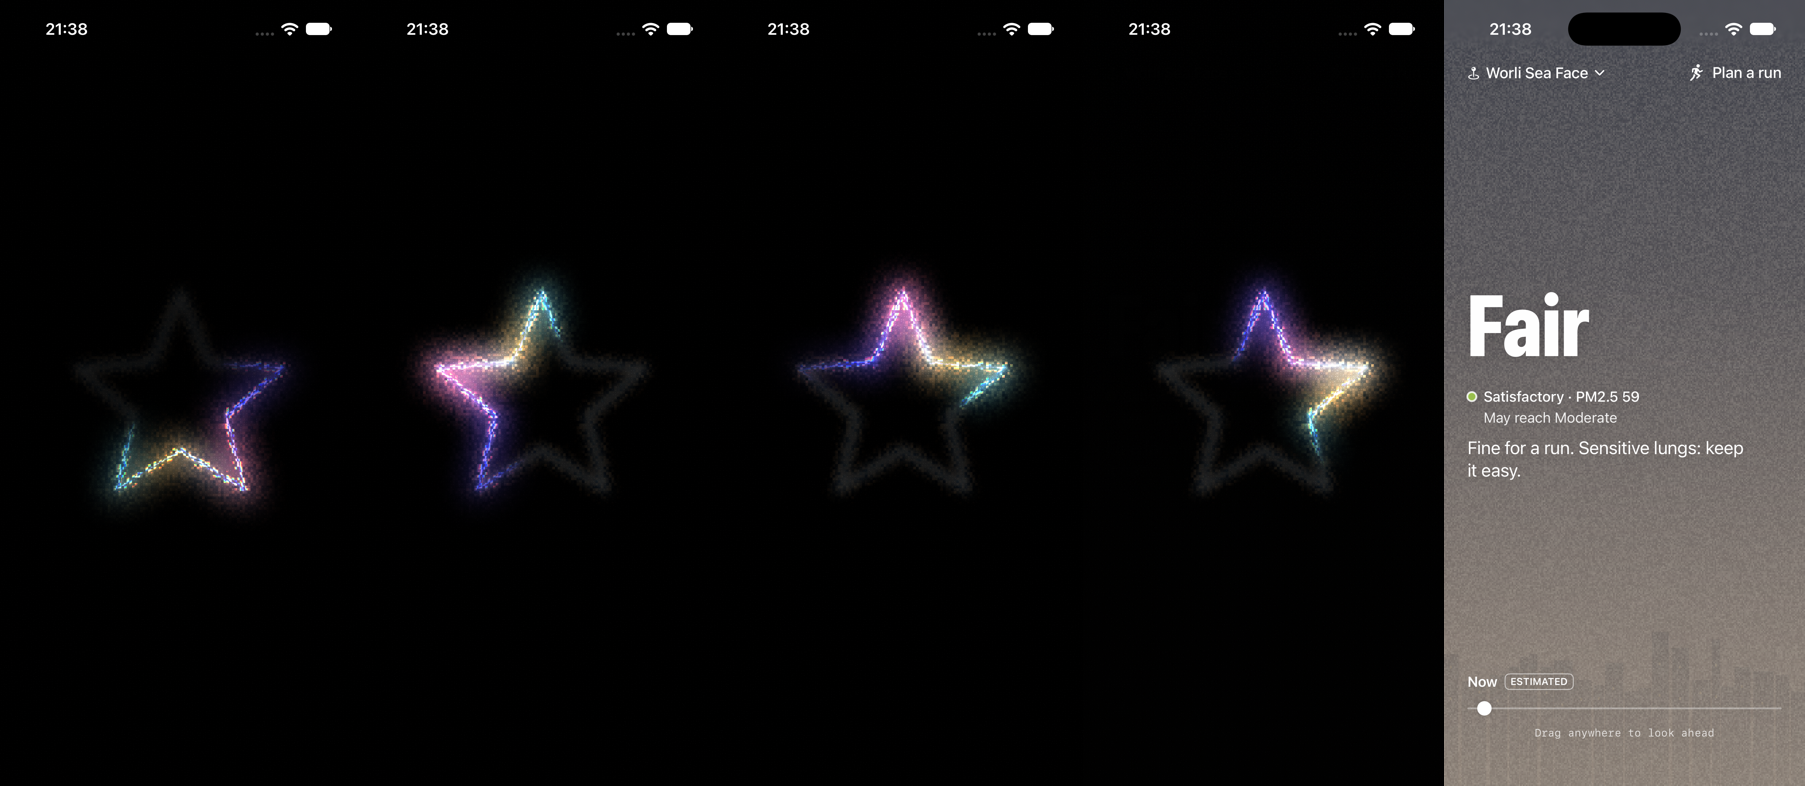
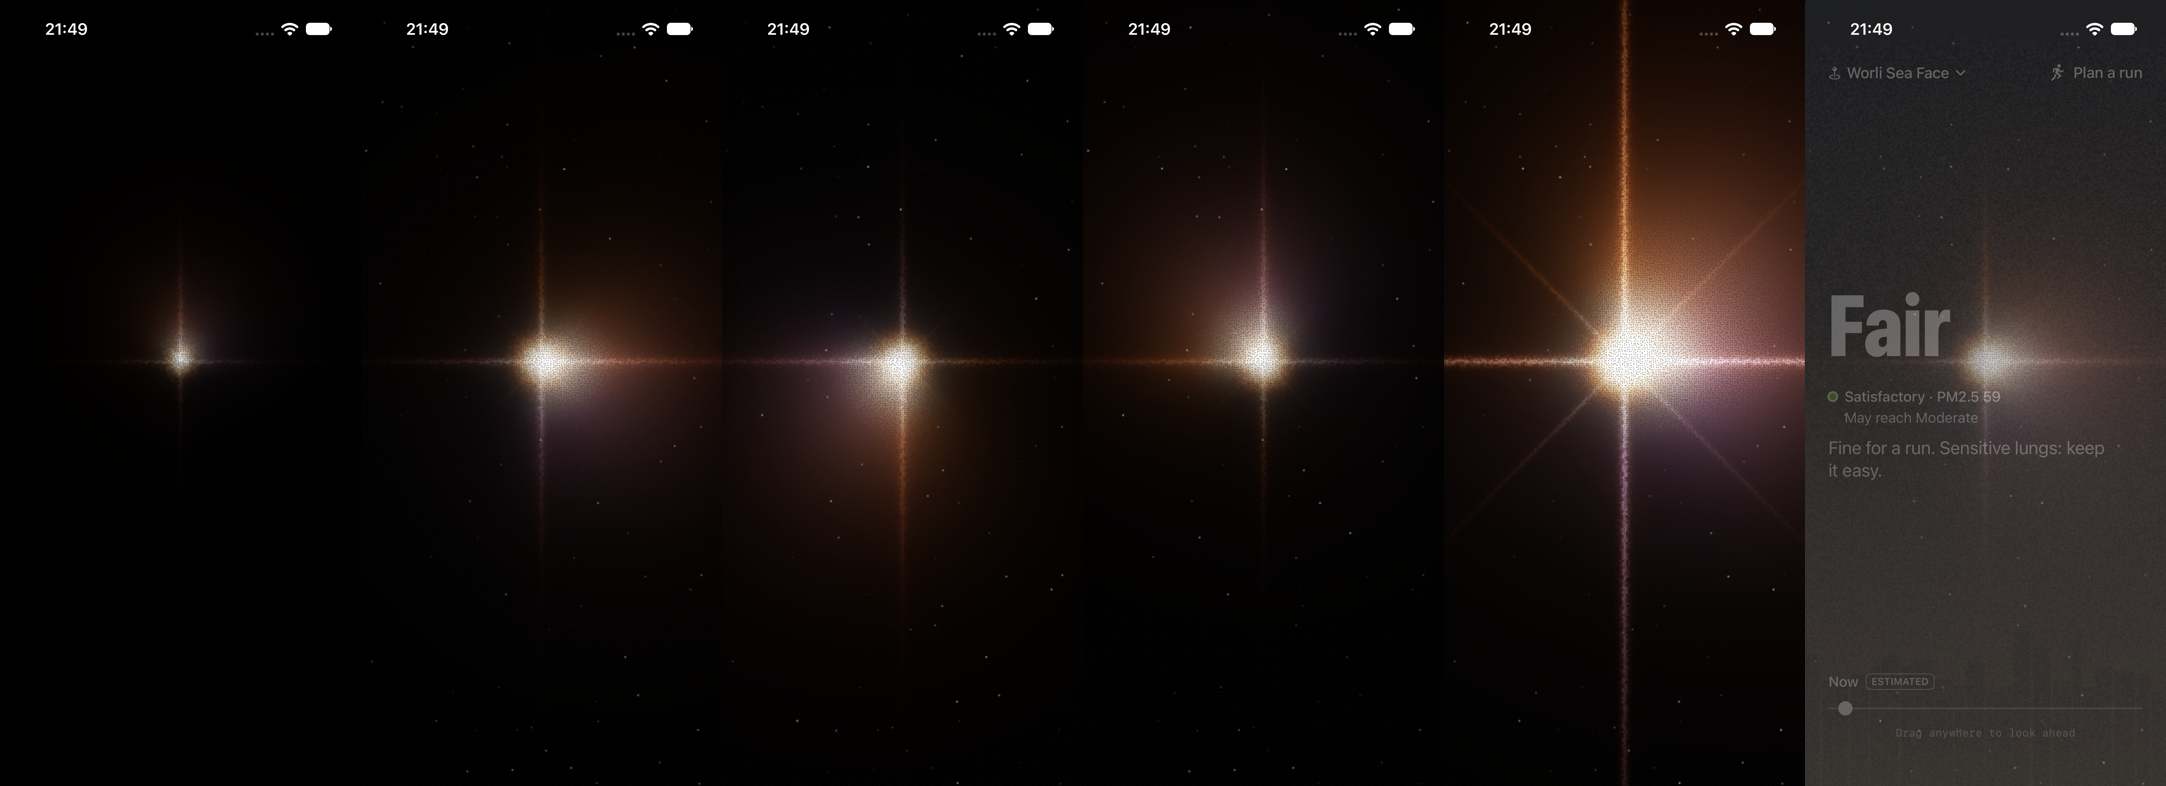
Make the opening star a real sky star, longer, with a proper sparkle
The outlined five-point star is replaced by a star as seen in the night sky:
white-hot centre, soft four-point glow and diffraction rays. It blooms from
a point, its prism-coloured light travels around it while it twinkles and
faint stars appear, it flares once, then fades into the sky (about 4.3 s).
Drawn by one Metal shader with the textured-glass specks of the Figma riff.

diff --git a/iOS/North Star/North Star/Launch/LaunchStar.swift b/iOS/North Star/North Star/Launch/LaunchStar.swift
@@ -1,41 +1,37 @@
 import SwiftUI
 
-/// The opening animation: a glowing star on black, with a bright rainbow
-/// highlight sweeping once around its edge, seen through a pane of textured
-/// glass (GlassPane.metal). Then it fades into the sky.
+/// The opening animation: a star blooms out of the dark, its light travels
+/// around it while it twinkles and faint stars appear around it, it flares once,
+/// then the picture fades into the sky. Drawn by SkyStar.metal.
 ///
 /// Inspired by Brett McMillin's "Spectral signal through the pane of glass"
-/// (Figma Community), with a star in place of the ring.
+/// (Figma Community), as a star in the night sky instead of a ring.
 struct LaunchStar: View {
     /// Called when the animation has finished (or was skipped by a tap).
     let onFinish: () -> Void
 
     @Environment(\.accessibilityReduceMotion) private var reduceMotion
-    /// When the animation's clock started; nil until the glass effect is ready to draw.
+    /// When the animation's clock started; nil until the shader is ready to draw.
     @State private var start: Date?
     @State private var finished = false
 
-    /// The glass: cells 3 points across, each bending the light up to 4 points.
-    private static let glass = ShaderLibrary.glassPane(.float(3), .float(8))
-
-    /// Timings in seconds.
-    private let fadeIn = 0.45
-    private let total = 2.2
-    private let fadeOut = 0.5
+    /// Timings in seconds: bloom, then the light travels, a flare, and the fade into the sky.
+    private var total: Double { reduceMotion ? 2.0 : 4.3 }
+    private let flareAt = 3.3
+    private let fadeOut = 0.7
 
     var body: some View {
-        TimelineView(.animation(paused: start == nil)) { context in
-            let t = start.map { context.date.timeIntervalSince($0) } ?? 0
-            ZStack {
-                Color.black
-                if start != nil {
-                    StarGlow(sweep: reduceMotion ? 0.62 : progress(t), strength: appear(t))
-                        .frame(width: 240, height: 240)
-                        .scaleEffect(1 + 0.12 * leave(t))
-                }
+        GeometryReader { geometry in
+            TimelineView(.animation(paused: start == nil)) { context in
+                let t = time(at: context.date)
+                Rectangle()
+                    .fill(.black)
+                    .colorEffect(ShaderLibrary.skyStar(
+                        .float2(geometry.size), .float(t),
+                        .float(bloom(t)), .float(orbit(t)), .float(flare(t)), .float(sky(t))),
+                                 isEnabled: start != nil)
+                    .opacity(1 - leave(t))
             }
-            .layerEffect(Self.glass, maxSampleOffset: CGSize(width: 8, height: 8), isEnabled: start != nil)
-            .opacity(1 - leave(t))
         }
         .ignoresSafeArea()
         .contentShape(Rectangle())
@@ -43,10 +39,14 @@ struct LaunchStar: View {
         .accessibilityLabel("North Star")
         .accessibilityAddTraits(.isImage)
         .task {
-            // Prepare the glass effect for the graphics chip first (the first time takes
-            // a moment), so the clock only starts once every frame can be drawn.
-            _ = try? await Self.glass.compile(as: .layerEffect)
+            // Prepare the shader for the graphics chip first (the first time takes a
+            // moment), so the clock only starts once every frame can be drawn.
+            _ = try? await ShaderLibrary.skyStar(.float2(CGSize.zero), .float(0), .float(0), .float(0), .float(0), .float(0))
+                .compile(as: .colorEffect)
             start = .now
+            #if DEBUG
+            if UserDefaults.standard.object(forKey: "introAt") != nil { return }  // frozen for screenshots
+            #endif
             try? await Task.sleep(for: .seconds(total))
             finish()
         }
@@ -58,90 +58,39 @@ struct LaunchStar: View {
         onFinish()
     }
 
-    // MARK: - Timing curves (each 0 to 1)
-
-    /// The star fading in.
-    private func appear(_ t: Double) -> Double { smooth(t / fadeIn) }
-
-    /// How far round the star the highlight has travelled (one turn, easing out).
-    private func progress(_ t: Double) -> Double {
-        let x = min(1, max(0, t / (total - fadeOut * 0.5)))
-        return 0.15 + (1 - pow(1 - x, 2.2)) * 1.0
+    /// Seconds since the start. Debug builds can freeze it with "-introAt 2.5" for screenshots.
+    private func time(at date: Date) -> Double {
+        #if DEBUG
+        if UserDefaults.standard.object(forKey: "introAt") != nil { return UserDefaults.standard.double(forKey: "introAt") }
+        #endif
+        return start.map { date.timeIntervalSince($0) } ?? 0
     }
 
-    /// The whole picture fading out into the sky.
+    // MARK: - Timing curves
+
+    /// The star growing out of a point (0 to 1).
+    private func bloom(_ t: Double) -> Double { smooth(t / 0.9) }
+
+    /// Background stars fading in (0 to 1).
+    private func sky(_ t: Double) -> Double { smooth((t - 0.3) / 1.2) }
+
+    /// Direction of the travelling light: one and a quarter turns, easing in and out.
+    private func orbit(_ t: Double) -> Double {
+        if reduceMotion { return -.pi / 3 }
+        return -.pi / 2 + smooth(t / (total - 0.4)) * 2.5 * .pi
+    }
+
+    /// The final sparkle: a quick bright pulse around flareAt (0 to 1).
+    private func flare(_ t: Double) -> Double {
+        reduceMotion ? 0 : exp(-pow((t - flareAt) / 0.2, 2))
+    }
+
+    /// The whole picture fading out into the sky (0 to 1).
     private func leave(_ t: Double) -> Double { smooth((t - (total - fadeOut)) / fadeOut) }
 
     private func smooth(_ x: Double) -> Double {
         let c = min(1, max(0, x))
         return c * c * (3 - 2 * c)
-    }
-}
-
-/// The glowing star. A dim glow all round, plus a bright highlight with
-/// rainbow edges at `sweep` (0 to 1, the share of one turn round the star).
-private struct StarGlow: View {
-    let sweep: Double
-    let strength: Double
-
-    /// The highlight: transparent most of the way round, then violet, pink,
-    /// white-hot, amber and cyan, like light split by a prism.
-    private var highlight: AngularGradient {
-        AngularGradient(stops: [
-            .init(color: .clear, location: 0.0),
-            .init(color: .clear, location: 0.48),
-            .init(color: Color(red: 0.45, green: 0.35, blue: 1.0).opacity(0.7), location: 0.62),
-            .init(color: Color(red: 1.0, green: 0.55, blue: 0.85), location: 0.72),
-            .init(color: .white, location: 0.8),
-            .init(color: Color(red: 1.0, green: 0.8, blue: 0.45), location: 0.87),
-            .init(color: Color(red: 0.45, green: 0.9, blue: 1.0).opacity(0.6), location: 0.94),
-            .init(color: .clear, location: 1.0),
-        ], center: .center, angle: .degrees(sweep * 360))
-    }
-
-    var body: some View {
-        ZStack {
-            // Faint outline so the whole star always reads.
-            StarShape()
-                .stroke(.white.opacity(0.16), style: StrokeStyle(lineWidth: 10, lineJoin: .round))
-                .blur(radius: 6)
-            // Wide soft glow of the highlight...
-            StarShape()
-                .stroke(highlight, style: StrokeStyle(lineWidth: 26, lineJoin: .round))
-                .blur(radius: 16)
-            // ...its coloured edge...
-            StarShape()
-                .stroke(highlight, style: StrokeStyle(lineWidth: 8, lineJoin: .round))
-                .blur(radius: 2)
-            // ...and a white-hot centre line where the highlight is brightest.
-            StarShape()
-                .stroke(highlight, style: StrokeStyle(lineWidth: 2.5, lineJoin: .round))
-                .brightness(0.35)
-                .blendMode(.plusLighter)
-        }
-        .compositingGroup()
-        .opacity(strength)
-    }
-}
-
-/// A five-pointed star, point up, filling its frame.
-struct StarShape: Shape {
-    /// Inner corners as a share of the outer radius (0.45 gives a classic star).
-    var innerRatio: Double = 0.45
-
-    func path(in rect: CGRect) -> Path {
-        let centre = CGPoint(x: rect.midX, y: rect.midY + rect.height * 0.04)  // optically centred
-        let outer = min(rect.width, rect.height) / 2
-        let inner = outer * innerRatio
-        var path = Path()
-        for i in 0..<10 {
-            let radius = i.isMultiple(of: 2) ? outer : inner
-            let angle = Double(i) * .pi / 5 - .pi / 2
-            let point = CGPoint(x: centre.x + radius * cos(angle), y: centre.y + radius * sin(angle))
-            if i == 0 { path.move(to: point) } else { path.addLine(to: point) }
-        }
-        path.closeSubpath()
-        return path
     }
 }
 
